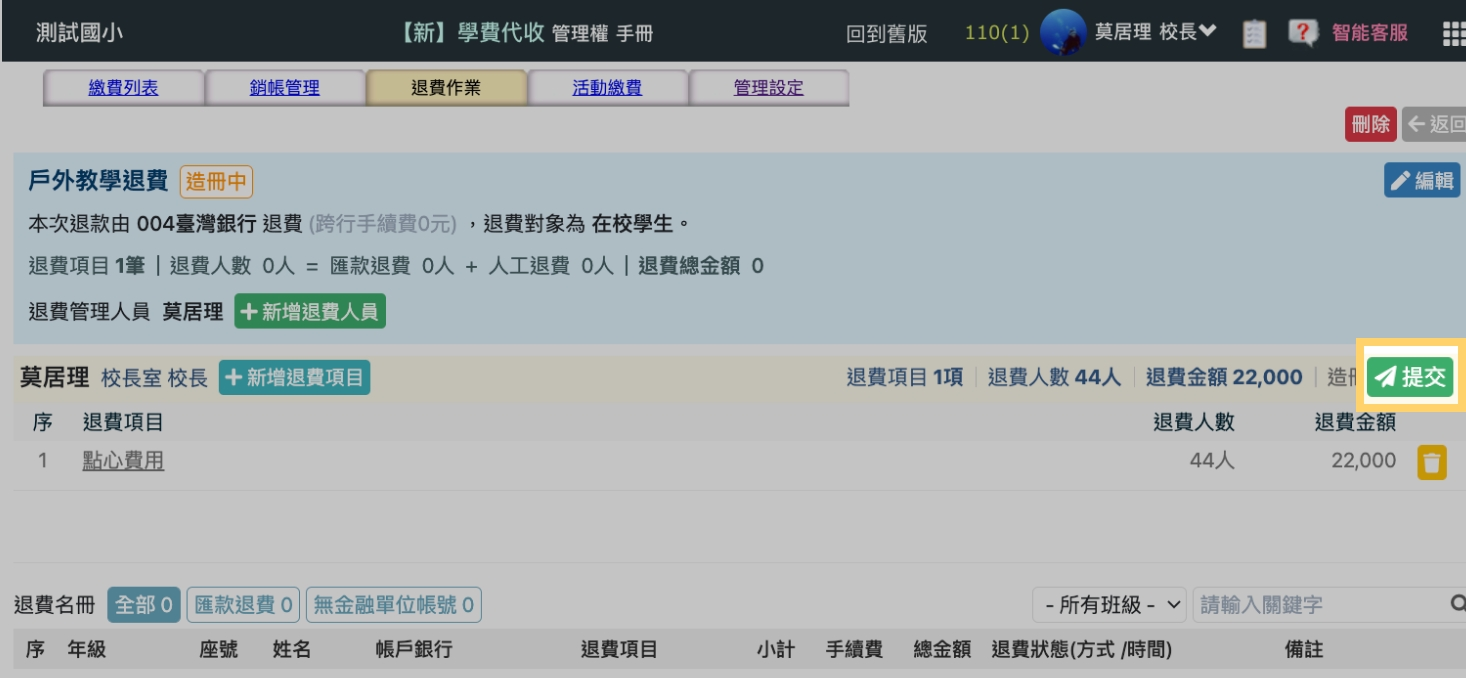
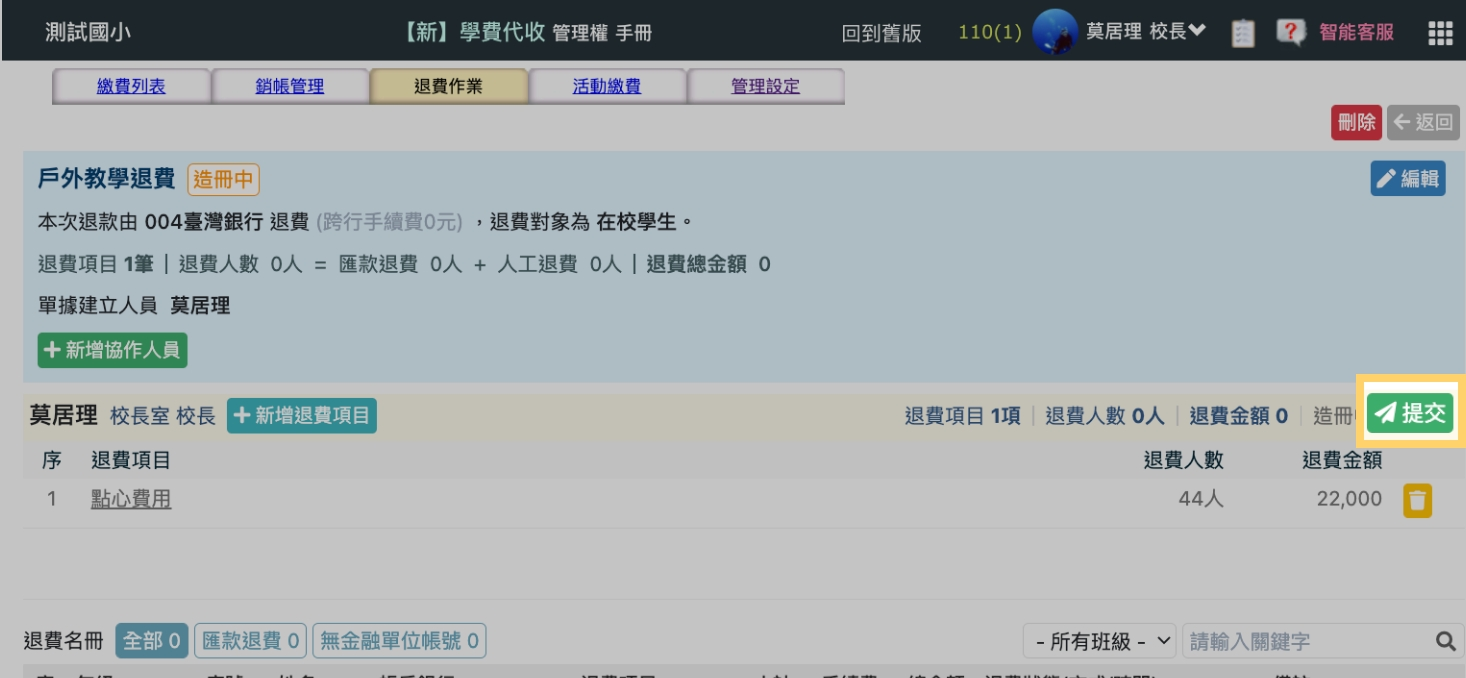
123

diff --git a/onlinepay-manual/web1/index.html b/onlinepay-manual/web1/index.html
@@ -126,7 +126,7 @@
                         步驟四、
                     </span>
                     <span>
-                        新增退費人員
+                        新增協作人員
                     </span>
                 </span>
             </div>
@@ -141,14 +141,14 @@
                     </div>
                     <div>
                         <div>
-                            點選<span>新增退費人員</span>
+                            點選<span>新增協作人員</span>
                         </div>
                         <div class="text-tag" style="margin-top: 2px;">
-                            ＊退費人員：您可加入其它人一起成為這筆退費作業的管理人員，即意指您要授權可以對這筆退費作業，使用新增/修改/刪除退費名單、金額的人員，
+                            ＊協作人員：您可加入其它人一起成為這筆退費作業的管理人員，即意指您要授權可以對這筆退費作業，使用新增/修改/刪除退費名單、金額的人員，
                         </div>
                     </div>
                 </li>
-                <li><img src="img/mark2.png" alt="">退費人員可進行<span>退費項目新增</span> 。</li>
+                <li><img src="img/mark2.png" alt="">協作人員可進行<span>退費項目新增</span> 。</li>
             </ul>
             <div class="step-title">
                 <span>
@@ -192,7 +192,7 @@
             <div class="b-step1">
                 <img src="img/stepb-6.jpg" alt="">
             </div>
-            <p style="margin-bottom: 56px;">當退費人員當完成退費項目後，須進行<span>提交</span>。
+            <p style="margin-bottom: 56px;">當協作人員完成退費項目後，須進行<span>提交</span>。
                 </p>
             <div class="step-title">
                 <span>
@@ -207,7 +207,7 @@
             <div class="b-step1">
                 <img src="img/stepb-7.jpg" alt="">
             </div>
-            <p style="margin-bottom: 56px;">退費人員都完成提交後，出納人員就可<span>匯出銀行媒體檔案</span>。（目前只提供臺銀媒體檔轉帳）</p>
+            <p style="margin-bottom: 56px;">協作人員都完成提交後，出納人員就可<span>匯出銀行媒體檔案</span>。（目前只提供臺銀媒體檔轉帳）</p>
             <div class="step-title">
                 <span>
                     <span>
